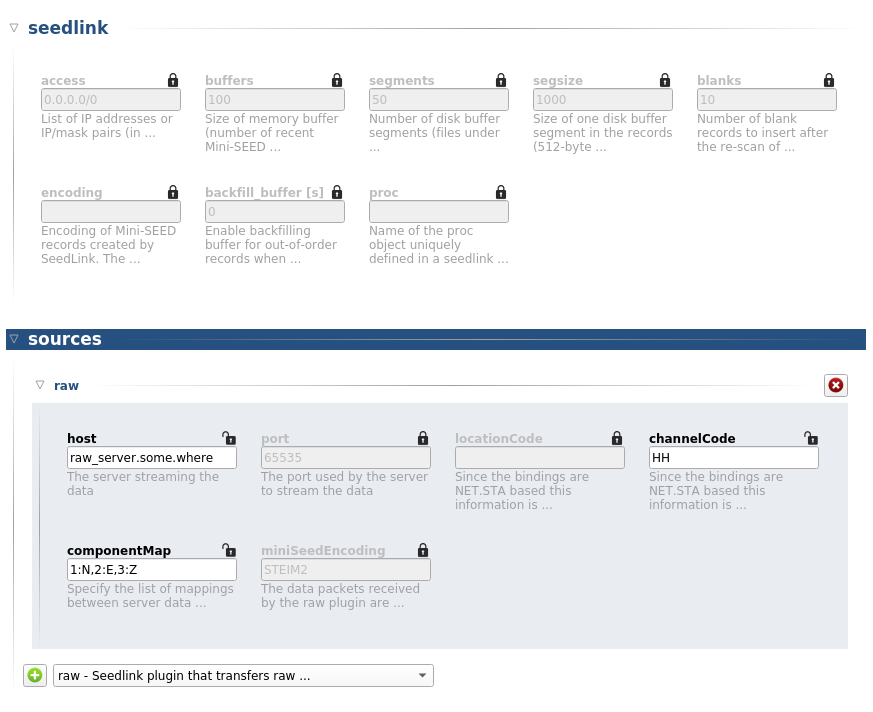
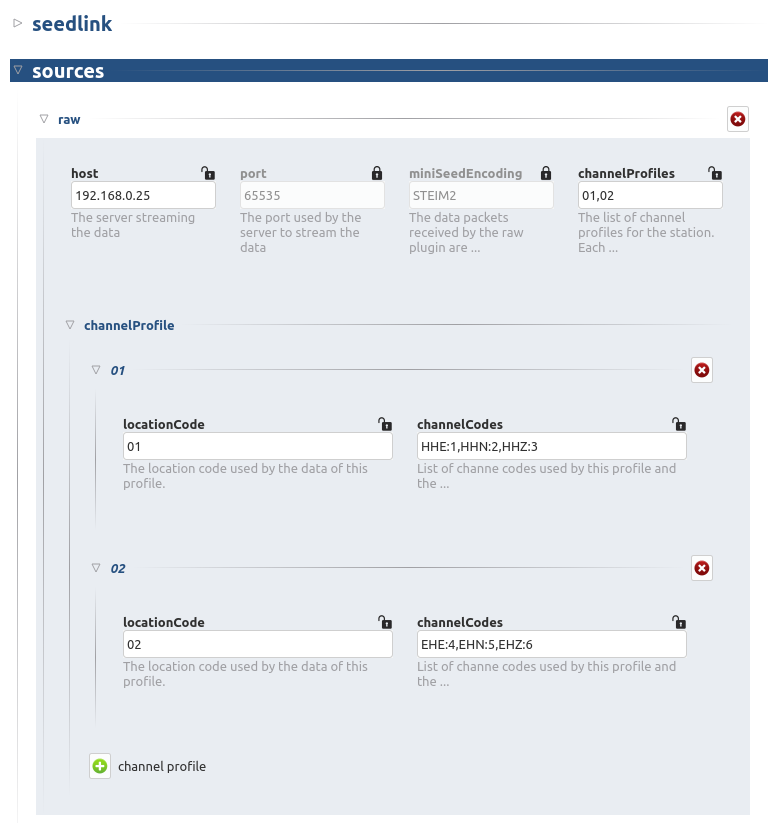
ENH: allow to work with multiple location codes

diff --git a/seedlink/plugins/raw_plugin/raw_plugin.cc b/seedlink/plugins/raw_plugin/raw_plugin.cc
@@ -3,7 +3,7 @@
  * to SeedLink.
  *
  * This plugin requires a barebone minimalistic server on the trasmitter
- * side and allow to easily add data to Seelink without much effort.
+ * side and allows to easily stream data to Seelink without much effort.
  *
  * Copyright (c) 2021 Swiss Seismological Service (SED)
  *
@@ -445,10 +445,10 @@ public:
 class RawClient
 {
 private:
-  struct Component
+  struct Stream
   {
-    string name;
-    string fullChannelCode;
+    string locationCode;
+    string channelCode;
     unique_ptr<MiniSeedStreamer> msStreamer;
   };
 
@@ -468,7 +468,7 @@ private:
   static const unsigned MAX_SAMPLES = 1e6;
 
   TcpClient _client;
-  unordered_map<unsigned, Component> _components;
+  unordered_map<unsigned, Stream> _stream;
   unordered_map<unsigned, ChannelSettings> _chSettings;
 
   void handshake()
@@ -480,7 +480,7 @@ private:
 
     _chSettings.clear();
 
-    for (auto &kv : _components)
+    for (auto &kv : _stream)
     {
       const unsigned channel   = kv.first;
       ChannelSettings settings = {0, Endianness::UNDEFINED, 0};
@@ -546,7 +546,7 @@ private:
       _chSettings[channel] = settings;
 
       kv.second.msStreamer.reset(new MiniSeedStreamer(
-          networkCode, stationCode, locationCode, kv.second.fullChannelCode,
+          networkCode, stationCode, kv.second.locationCode, kv.second.channelCode,
           settings.samplingRate, mseedEncoding));
     }
 
@@ -562,8 +562,6 @@ public:
   const int sleepTime;
   const string networkCode;
   const string stationCode;
-  const string locationCode;
-  const string channelCode;
   const string mseedEncoding;
 
   RawClient(const string &host_,
@@ -571,30 +569,33 @@ public:
             int sleepTime_,
             const string &networkCode_,
             const string &stationCode_,
-            const string &locationCode_,
-            const string &channelCode_,
-            const string &componentMap,
+            const string &channelCodeMap,
             const string &mseedEncoding_)
       : _client(host_, port_), host(host_), port(port_), sleepTime(sleepTime_),
         networkCode(networkCode_), stationCode(stationCode_),
-        locationCode(locationCode_), channelCode(channelCode_), mseedEncoding(mseedEncoding_)
+        mseedEncoding(mseedEncoding_)
   {
-    static const regex re("^([0-9]+):(\\w)(,)?", regex::optimize);
+    static const regex re("^(\\w*)?.(\\w*):([0-9]+)(,)?", regex::optimize);
     smatch m;
-    string input = componentMap;
+    string input = channelCodeMap;
     while (regex_search(input, m, re))
     {
-      unsigned channel = stoul(m[1].str());
-      string name      = m[2].str();
+      string locationCode = m[1].str();
+      string channelCode  = m[2].str();
+      unsigned channel = stoul(m[3].str());
 
-      _components[channel] = {name, channelCode + name, nullptr};
+      _stream[channel] = {locationCode, channelCode, nullptr};
+
+      Log::info("Server channel %d -> %s.%s.%s.%s", channel,
+                networkCode.c_str(), stationCode.c_str(),
+                locationCode.c_str(), channelCode.c_str());
 
       input = input.substr(m.length());
     }
-    if (_components.empty() || !input.empty())
+    if (_stream.empty() || !input.empty())
     {
-      throw RecoverableError("Unsuitable components map provided: '" +
-                             componentMap + "'");
+      throw RecoverableError("Unsuitable stream map provided: '" +
+                             channelCodeMap + "'");
     }
   }
 
@@ -710,14 +711,14 @@ public:
         }
 
         // Log::info("Sending %d samples to seedlink", header.numSamples);
-        _components.at(header.channel)
+        _stream.at(header.channel)
             .msStreamer->sendtoSeedlink(&header.pt, samples, header.numSamples);
       }
       catch (RecoverableError &e)
       {
         Log::error("Exception: %s", e.what());
         _client.close();
-        for (auto &kv : _components) kv.second.msStreamer = nullptr;
+        for (auto &kv : _stream) kv.second.msStreamer = nullptr;
         ::sleep(sleepTime);
         continue;
       }
@@ -752,7 +753,8 @@ void printUsageAndExit(int argc, char **argv)
   Log::error("Required:");
   Log::error("    -s host    server address, required");
   Log::error("    -p port    server port");
-  Log::error("    -c stream  the stream the data refers to (NET.STA.LOC.CHAN)");
+  Log::error("    -c stream  the stream the data refers to (NET.STA)");
+  Log::error("    -m chmap   map of location and channel codes to server channel numbers");
   Log::error("Options:");
   Log::error("    -r secs    sleep time in seonds before reconnecting");
   Log::error("                after an EOF or connect failure,");
@@ -768,7 +770,7 @@ int main(int argc, char **argv)
   string host;
   int port = -1;
   string stream;
-  string componentMap;
+  string channelCodeMap;
   string mseedEncoding = "STEIM2";
   int sleepTime   = 60;
   bool daemonMode = false;
@@ -788,7 +790,7 @@ int main(int argc, char **argv)
     case 'p': port = atoi(optarg); break;
     case 'c': stream = optarg; break;
     case 'r': sleepTime = atoi(optarg); break;
-    case 'm': componentMap = optarg; break;
+    case 'm': channelCodeMap = optarg; break;
     case 'e': mseedEncoding = optarg; break;
     default: printUsageAndExit(argc, argv); break;
     }
@@ -801,15 +803,13 @@ int main(int argc, char **argv)
 
   static const std::regex dot("\\.", std::regex::optimize);
   std::vector<std::string> tokens(splitString(stream, dot));
-  if (tokens.size() != 4)
+  if (tokens.size() != 2)
   {
-    Log::error("-c option should be in the format STA.NET.LOC.CHA");
+    Log::error("-c option should be in the format STA.NET");
     quit();
   }
   string networkCode  = tokens[0];
   string stationCode  = tokens[1];
-  string locationCode = tokens[2];
-  string channelCode  = tokens[3];
 
   struct sigaction sa;
   sa.sa_handler = quit;
@@ -832,7 +832,7 @@ int main(int argc, char **argv)
   }
 
   RawClient client(host, port, sleepTime, networkCode, stationCode,
-                   locationCode, channelCode, componentMap, mseedEncoding);
+                   channelCodeMap, mseedEncoding);
   client.run();
   quit();
 }

diff --git a/seedlink/templates/raw/setup.py b/seedlink/templates/raw/setup.py
@@ -27,30 +27,28 @@ class SeedlinkPluginHandler:
       port = "65535"
       seedlink.setParam('sources.raw.port', port)
 
-    try: locationCode = seedlink.param('sources.raw.locationCode')
-    except:
-      locationCode = ""
-      seedlink.setParam('sources.raw.locationCode', locationCode)
-
-    try: channelCode = seedlink.param('sources.raw.channelCode')
-    except:
-      channelCode = ""
-      seedlink.setParam('sources.raw.channelCode', channelCode)
-
     try: miniSeedEncoding = seedlink.param('sources.raw.miniSeedEncoding')
     except:
       miniSeedEncoding = "STEIM2"
       seedlink.setParam('sources.raw.miniSeedEncoding', miniSeedEncoding)
 
-    stream = seedlink.net + '.' + seedlink.sta + '.' + locationCode + '.' + channelCode
-    seedlink.setParam('sources.raw.stream', stream)
+    channelProfiles = seedlink.param('sources.raw.channelProfiles')
 
-    # this is a mandatory parameter and it is requested so that an exception is
-    # raised whether a value has not been provided
-    try: componentMap = seedlink.param('sources.raw.componentMap')
-    except:
-      componentMap = ""
-      seedlink.setParam('sources.raw.componentMap', componentMap)
+    channelCodeMap = ""
+    for profile in channelProfiles.split(","):
+
+        try: locationCode = seedlink.param(f"sources.raw.channelProfile.{profile}.locationCode")
+        except: locationCode = ""
+        channelCodes = seedlink.param(f"sources.raw.channelProfile.{profile}.channelCodes")
+
+        for kv in channelCodes.split(","):
+            channelCode, serverChannel = kv.split(":")
+            channelCodeMap += f"{locationCode}.{channelCode}:{serverChannel},"
+
+    seedlink.setParam('sources.raw.channelCodeMap', channelCodeMap)
+
+    stream = seedlink.net + '.' + seedlink.sta
+    seedlink.setParam('sources.raw.stream', stream)
 
     return stream
 

diff --git a/README.md b/README.md
@@ -1,25 +1,38 @@
 # seedlink_raw_plugin
-Adaptable Seedlink plugin for custom data streaming to SeisComP
+Seedlink plugin for custom data streaming to SeisComP
 
 This plugin can be included in the SeisComP Seedlink implementation and allows to stream
-custom data to SeisComP. The raw plugin, running withiin seedlink server, connects to the
-provided raw_server.py, running on your own device. The raw_server.py provides the API to 
-stream your own data to the plugin without worring about the protocol details. The 
-raw_server.py works as a separate process and the module API use inter process communication
-to pass data between your code and the server. The server itself uses asyncio to achive high
-performance. That said, there is no need to use raw_server, a different implementation would
-work as well.
+custom data to SeisComP. This RAW plugin, running within the seedlink server, connects to 
+the provided raw_server.py, which has to run on your device.
 
-The RAW plugin and server implement a barebone minimalistic protocol that can be easily
-modified in the code to suit your own use case, if that doesn't fullfil already your
-requirements. Plugin and server agree on the data settings before streaming: int8, int16, int32,
-little-endian, big-endian and sample rate (max 1MHz) and the channels to stream (a channel is
-just a numeric id used to distinguish multiple streams coming from the same server). The data
-packets, once received by the plugin, are eventually converted to miniseeds and passed to
-seedlink, which make them available to any application connecting to it.
+The raw_server.py provides the API to stream your data to the seedlink server, through the
+RAW plugin, without worring about the protocol details. If you cannot use the raw_server
+in our device, you can create your own implementation and use raw_server.py as a reference.
+
+The RAW plugin and server implement a barebone minimalistic protocol and it can easily be
+modified if that doesn't already fullfil your requirements. Plugin and server agree on the
+data settings before streaming: 
+- int8, int16, int32
+- little-endian, big-endian 
+- sample rate (max 1MHz) 
+- the channel(s) to stream (a channel is just a numeric id used to distinguish multiple streams
+  but the meaning is defined by the server, which decides what a channel number refers to).
+The data packets, once received by the plugin, are eventually converted to miniseeds and passed
+to seedlink, which make them available to any application connecting to it e.g. SeisComP.
+
+The raw_server.py runs as a separate process and inter process communication is used to
+pass the data between your code and the server. The server itself uses asyncio to achive high
+performance. All these details are hiddend behind a nice API layer.
+
+To install simply drop the code in the `seiscomp/src/base/seedlink/` folder and edit 
+`seiscomp/src/base/seedlink/plugins/CMakeLists.txt` to compile the raw_plugin too during
+the compilation/installation process.
 
 Finally, to make this plugin work within SeisComP you need to provides the seedlink bindings
 for your station(s). In the bindings you need to select the raw plugin and configure it with
 the address of the server.
 
 ![Bindings options](/bindingsOptions.png?raw=true "Bindings options")
+
+
+
